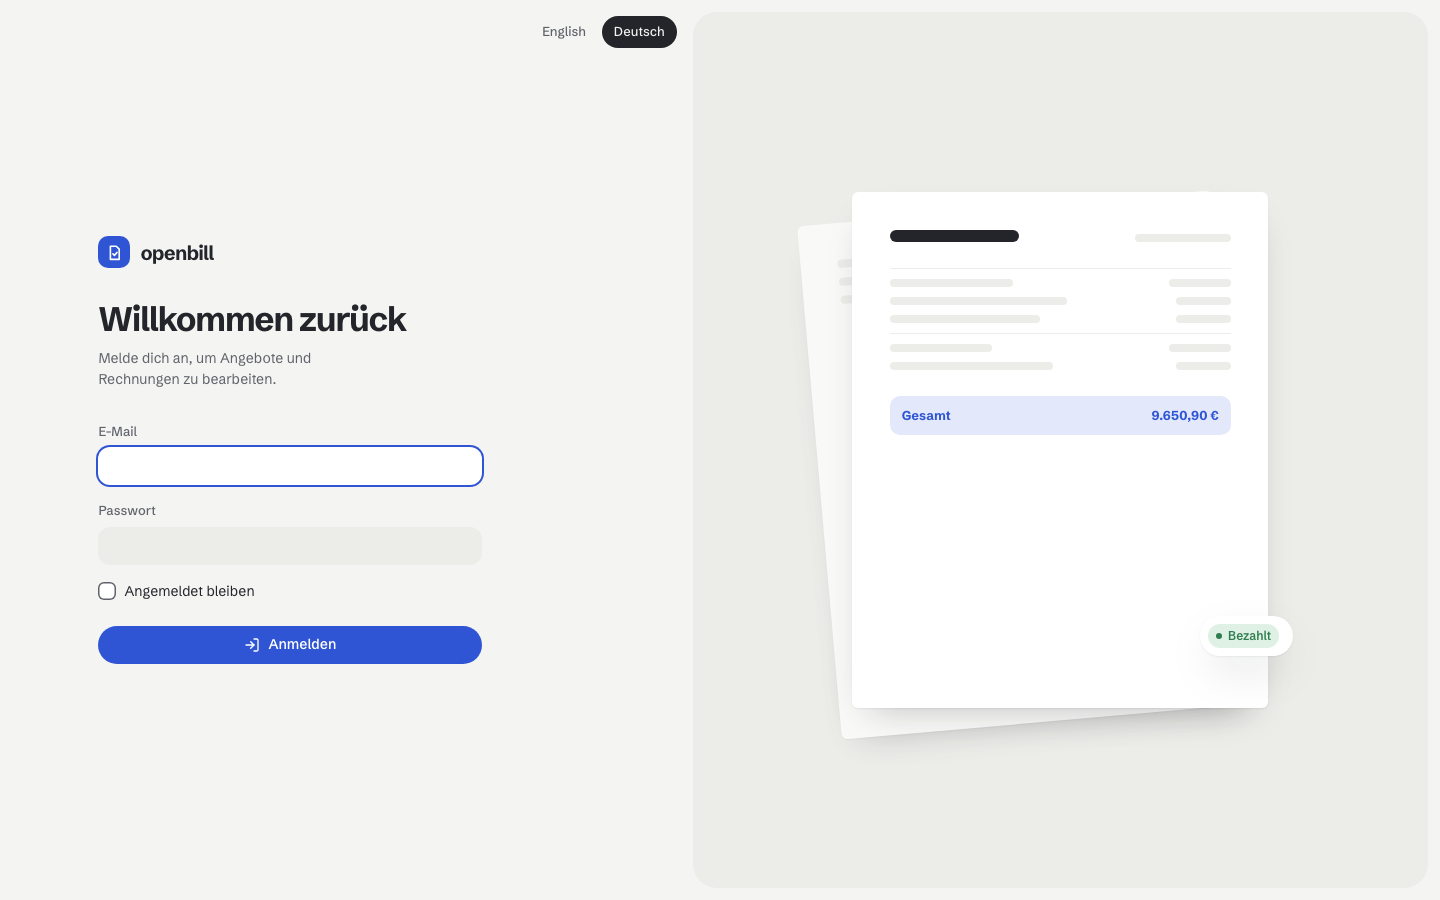
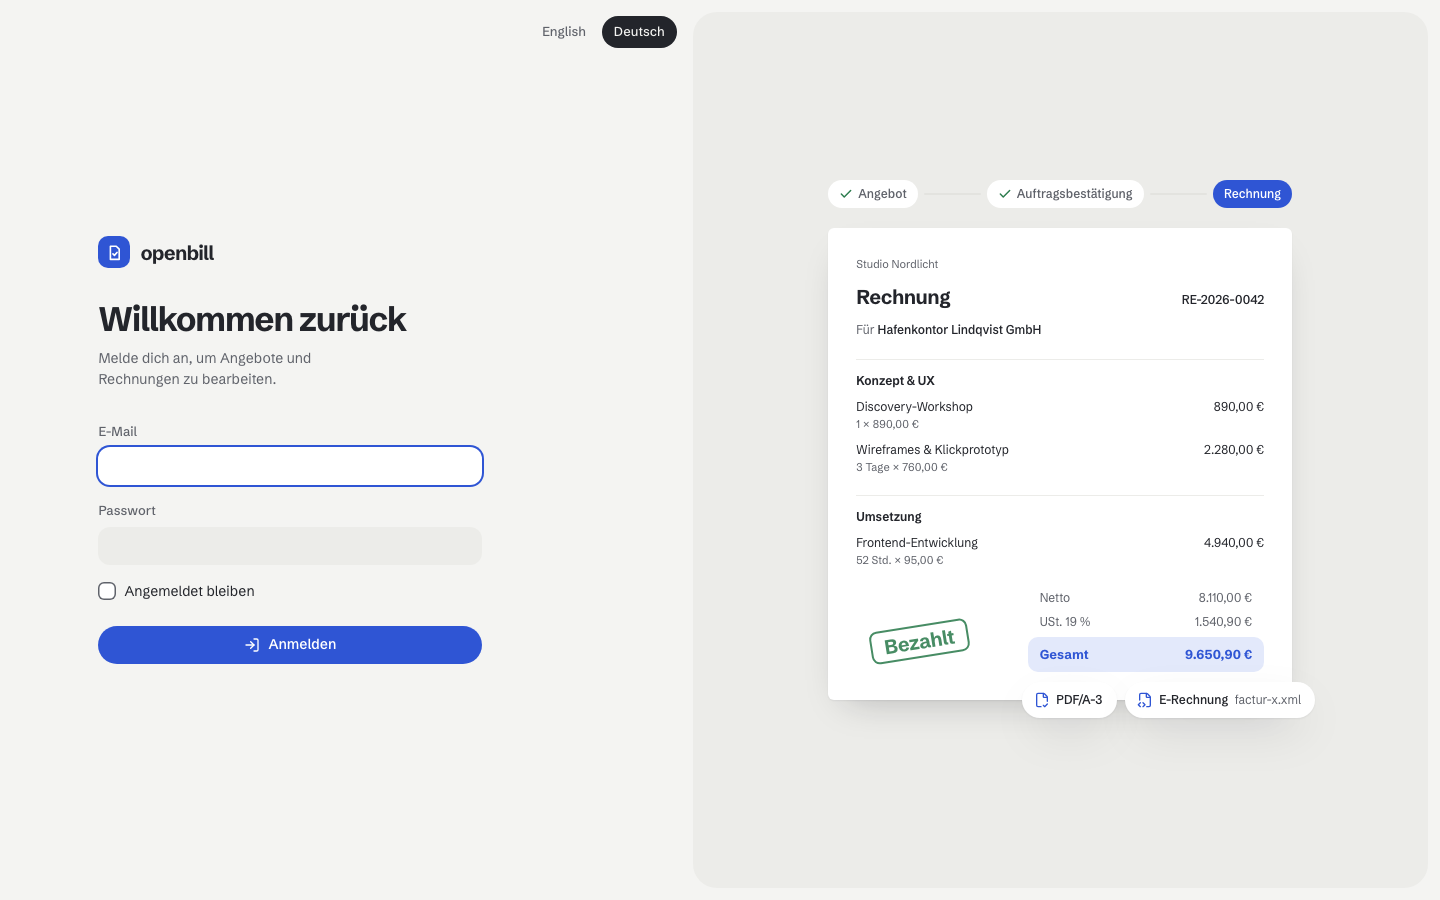
feat: login illustration with a real mini invoice and document chain
Replace the placeholder sheet on the login page with a fictional invoice
(Studio Nordlicht to Hafenkontor Lindqvist GmbH, two position groups,
net 8,110.00, VAT 19 % 1,540.90, total 9,650.90) in the UI language, the
chain quote, order confirmation, invoice above it, and one calm load
sequence (~2 s, once): the chain steps through, the invoice gets its
number, a paid stamp settles, PDF/A-3 and e-invoice badges appear.
Reduced motion shows the final state at once. Decorative (aria-hidden),
paper stays white in dark mode, hidden on narrow screens as before.

diff --git a/resources/js/components/login-art.tsx b/resources/js/components/login-art.tsx
@@ -1,0 +1,114 @@
+import { Check, FileCheck2, FileCode2 } from 'lucide-react';
+import { Fragment, type CSSProperties } from 'react';
+import { formatMoney, formatPercent } from '@/lib/format';
+import { t } from '@/lib/i18n';
+
+/** Stagger of an animated element (resources/css/login.css reads --step). */
+const step = (index: number) => ({ '--step': index }) as CSSProperties;
+
+const CHAIN = ['offer', 'confirmation', 'invoice'] as const;
+
+/** Fictional demo invoice in the UI language (the numbers of the docs landing page): 890.00 + 3 × 760.00 + 52 × 95.00 = 8,110.00 net. */
+const groups = () => [
+    {
+        title: 'login.art.group_concept',
+        rows: [
+            { name: 'login.art.item_workshop', meta: t('login.art.qty_once', { price: formatMoney('890.00') }), amount: '890.00' },
+            { name: 'login.art.item_wireframes', meta: t('login.art.qty_days', { count: 3, price: formatMoney('760.00') }), amount: '2280.00' },
+        ],
+    },
+    {
+        title: 'login.art.group_build',
+        rows: [{ name: 'login.art.item_frontend', meta: t('login.art.qty_hours', { count: 52, price: formatMoney('95.00') }), amount: '4940.00' }],
+    },
+];
+
+/**
+ * Decorative illustration of the login page: the document chain steps through to the invoice, the invoice gets its
+ * number, a "paid" stamp settles and the two archive files appear. Plays once (~2 s, login.css); with reduced motion
+ * it shows the final state right away. The paper stays white in dark mode (DESIGN.md: it shows the printed PDF).
+ */
+export function LoginArt() {
+    return (
+        <div aria-hidden className="login-art grid w-full max-w-[29rem] gap-5">
+            <div className="flex items-center gap-1.5 text-xs font-strong">
+                {CHAIN.map((type, index) => {
+                    const current = index === CHAIN.length - 1;
+                    return (
+                        <Fragment key={type}>
+                            {index > 0 && <span className="login-link h-0.5 min-w-3 flex-1 basis-0 rounded-full bg-surface-3" style={step(index)} />}
+                            <span className={current ? 'login-step login-step-current' : 'login-step'} style={step(index)}>
+                                {!current && <Check className="login-check size-3.5 text-ok" strokeWidth={2.5} />}
+                                <span className="truncate">{t(`document_type.${type}`)}</span>
+                            </span>
+                        </Fragment>
+                    );
+                })}
+            </div>
+
+            <div className="login-paper relative grid gap-5 rounded-[6px] p-7 text-xs shadow-paper">
+                <div className="grid gap-3">
+                    <span className="text-[11px] text-[var(--paper-muted)]">Studio Nordlicht</span>
+                    <div className="flex items-baseline justify-between gap-4">
+                        <span className="text-xl font-bold tracking-heading">{t('document_type.invoice')}</span>
+                        <span className="num grid justify-items-end font-strong">
+                            <span className="login-draft col-start-1 row-start-1 text-[var(--paper-muted)]">{t('template.draft')}</span>
+                            <span className="login-number col-start-1 row-start-1">{t('login.art.number')}</span>
+                        </span>
+                    </div>
+                    <span className="text-[var(--paper-muted)]">
+                        {t('template.for')} <span className="font-strong text-[var(--paper-ink)]">Hafenkontor Lindqvist GmbH</span>
+                    </span>
+                </div>
+
+                {groups().map((group) => (
+                    <div key={group.title} className="grid gap-2 border-t border-[var(--paper-line)] pt-3">
+                        <span className="font-heading">{t(group.title)}</span>
+                        {group.rows.map((row) => (
+                            <div key={row.name} className="flex items-baseline justify-between gap-4">
+                                <span className="grid">
+                                    <span>{t(row.name)}</span>
+                                    <span className="num text-[11px] text-[var(--paper-muted)]">{row.meta}</span>
+                                </span>
+                                <span className="num">{formatMoney(row.amount)}</span>
+                            </div>
+                        ))}
+                    </div>
+                ))}
+
+                <div className="num ml-auto grid w-[58%] gap-1.5">
+                    <div className="flex justify-between px-3 text-[var(--paper-muted)]">
+                        <span>{t('template.net')}</span>
+                        <span>{formatMoney('8110.00')}</span>
+                    </div>
+                    <div className="flex justify-between px-3 text-[var(--paper-muted)]">
+                        <span>
+                            {t('template.vat')} {formatPercent('19.00')}
+                        </span>
+                        <span>{formatMoney('1540.90')}</span>
+                    </div>
+                    <div className="flex justify-between rounded-[10px] bg-[var(--paper-accent-soft)] px-3 py-2 text-sm font-bold text-[var(--paper-accent)]">
+                        <span>{t('template.total')}</span>
+                        <span>{formatMoney('9650.90')}</span>
+                    </div>
+                </div>
+
+                <span className="login-stamp absolute bottom-[9%] left-[9%] rounded-[8px] border-2 border-current px-3 py-0.5 text-xl font-bold tracking-heading text-[var(--paper-ok)]">
+                    {t('status.paid')}
+                </span>
+            </div>
+
+            <div className="relative z-10 -mt-[2.375rem] mr-[-5%] flex justify-end gap-2">
+                <span className="login-file" style={step(0)}>
+                    <FileCheck2 className="size-4 text-accent" />
+                    PDF/A-3
+                </span>
+                <span className="login-file" style={step(1)}>
+                    <FileCode2 className="size-4 text-accent" />
+                    {t('editor.e_invoice')}
+                    <span className="font-normal text-muted">factur-x.xml</span>
+                </span>
+            </div>
+        </div>
+    );
+}

diff --git a/resources/js/pages/login.tsx b/resources/js/pages/login.tsx
@@ -1,12 +1,11 @@
 import { Head, useForm } from '@inertiajs/react';
 import { LogIn } from 'lucide-react';
 import { LocaleSwitch } from '@/components/locale-switch';
+import { LoginArt } from '@/components/login-art';
 // direct imports, not the ui barrel: the barrel re-exports Radix dialogs and menus the login does not need
-import { Badge } from '@/components/ui/badge';
 import { Button } from '@/components/ui/button';
 import { Checkbox, TextInput } from '@/components/ui/form';
 import { LogoMark } from '@/layouts/logo';
-import { formatMoney } from '@/lib/format';
 import { path, t } from '@/lib/i18n';
 
 export default function Login() {
@@ -62,48 +61,9 @@ export default function Login() {
                     </Button>
                 </form>
             </div>
-            <div aria-hidden className="relative hidden place-items-center overflow-hidden rounded-xl bg-surface-2 p-10 md:grid">
+            <div className="relative hidden place-items-center overflow-hidden rounded-xl bg-surface-2 p-10 md:grid">
                 <LoginArt />
             </div>
         </main>
-    );
-}
-
-/** Two sheets of paper, a total and a "paid" chip. Decorative; paper stays white in dark mode as well. */
-function LoginArt() {
-    const line = (width: string) => <span className="block h-2 rounded-full bg-[#ecece9]" style={{ width }} />;
-    const row = (left: string, right: string, group = false) => (
-        <div className={group ? 'flex justify-between border-t border-[#ecece9] pt-2.5' : 'flex justify-between'}>
-            {line(left)}
-            {line(right)}
-        </div>
-    );
-
-    return (
-        <div className="relative aspect-[210/260] w-full max-w-[26rem]">
-            <div className="absolute inset-0 grid -translate-x-[8%] translate-y-[3%] -rotate-5 content-start gap-2.5 rounded-[6px] bg-white p-[9%] opacity-70 shadow-paper">
-                {line('40%')}
-                {line('70%')}
-                {line('55%')}
-            </div>
-            <div className="absolute inset-0 grid content-start gap-2.5 rounded-[6px] bg-white p-[9%] text-[13px] text-[#23252b] shadow-paper">
-                <div className="mb-4 flex items-baseline justify-between">
-                    <span className="block h-3 w-[38%] rounded-full bg-[#23252b]" />
-                    {line('28%')}
-                </div>
-                {row('36%', '18%', true)}
-                {row('52%', '16%')}
-                {row('44%', '16%')}
-                {row('30%', '18%', true)}
-                {row('48%', '16%')}
-                <div className="num mt-4 flex justify-between rounded-[10px] bg-[#e3e9fb] px-3 py-2.5 font-bold text-[#2f55d4]">
-                    <span>{t('template.total')}</span>
-                    <span>{formatMoney('9650.90')}</span>
-                </div>
-            </div>
-            <div className="absolute right-[-6%] bottom-[10%] flex items-center gap-2 rounded-full bg-surface py-2 pr-3.5 pl-2 shadow-float">
-                <Badge tone="ok">{t('status.paid')}</Badge>
-            </div>
-        </div>
     );
 }

diff --git a/resources/css/login.css b/resources/css/login.css
@@ -1,0 +1,115 @@
+/*
+ * Login illustration (resources/js/components/login-art.tsx): one sequence on load, ~2 s, never again.
+ * The final state is the elements' own style; the animations only fill backwards (from their first keyframe until
+ * they start), so without animations (reduced motion) the final state shows at once.
+ */
+.login-paper {
+    background: var(--paper);
+    color: var(--paper-ink);
+}
+
+.login-step {
+    display: inline-flex;
+    min-width: 0;
+    height: 1.75rem;
+    align-items: center;
+    gap: 0.3rem;
+    border-radius: 999px;
+    padding-inline: 0.7rem;
+    background: var(--surface);
+    color: var(--muted);
+    animation: login-step 320ms var(--ease-soft) calc(150ms + var(--step) * 300ms) backwards;
+}
+
+.login-step-current {
+    background: var(--accent);
+    color: var(--accent-ink);
+}
+
+.login-check {
+    flex-shrink: 0;
+    animation: login-fade 240ms var(--ease-soft) calc(300ms + var(--step) * 300ms) backwards;
+}
+
+.login-link {
+    transform-origin: left;
+    animation: login-grow 260ms var(--ease-soft) calc(var(--step) * 300ms) backwards;
+}
+
+/* the invoice gets its number once it is reached in the chain */
+.login-draft {
+    opacity: 0;
+    animation: login-out 220ms var(--ease-soft) 1000ms backwards;
+}
+
+.login-number {
+    animation: login-in 300ms var(--ease-soft) 1080ms backwards;
+}
+
+.login-stamp {
+    opacity: 0.88;
+    transform: rotate(-9deg);
+    animation: login-stamp 420ms var(--ease-soft) 1300ms backwards;
+}
+
+.login-file {
+    display: inline-flex;
+    height: 2.25rem;
+    align-items: center;
+    gap: 0.4rem;
+    border-radius: 999px;
+    padding-inline: 0.75rem 0.9rem;
+    background: var(--surface);
+    box-shadow: var(--elev-float);
+    font-size: 0.75rem;
+    font-weight: 550;
+    white-space: nowrap;
+    animation: login-in 320ms var(--ease-soft) calc(1700ms + var(--step) * 150ms) backwards;
+}
+
+@keyframes login-step {
+    from {
+        background: transparent;
+        color: var(--faint);
+    }
+}
+
+@keyframes login-fade {
+    from {
+        opacity: 0;
+    }
+}
+
+@keyframes login-grow {
+    from {
+        transform: scaleX(0);
+    }
+}
+
+@keyframes login-out {
+    from {
+        opacity: 1;
+    }
+}
+
+@keyframes login-in {
+    from {
+        opacity: 0;
+        transform: translateY(6px);
+    }
+}
+
+@keyframes login-stamp {
+    from {
+        opacity: 0;
+        transform: rotate(-3deg) scale(1.6);
+    }
+}
+
+/* final state immediately (the global rule only shortens durations, the delays would still hide the stamp) */
+@media (prefers-reduced-motion: reduce) {
+    .login-art,
+    .login-art * {
+        animation: none !important;
+    }
+}

diff --git a/resources/css/app.css b/resources/css/app.css
@@ -3,6 +3,7 @@
 @import './editor.css';
 @import './templates.css';
 @import './settings.css';
+@import './login.css';
 @source '../js';
 @source '../views';
 
@@ -37,6 +38,14 @@
     --elev-paper: 0 1px 2px rgb(20 22 30 / 0.06), 0 16px 36px -18px rgb(20 22 30 / 0.28);
     --elev-float: 0 1px 2px rgb(20 22 30 / 0.06), 0 18px 48px -12px rgb(20 22 30 / 0.22);
     --elev-tab: 0 1px 2px rgb(20 22 30 / 0.08);
+    /* printed paper (login illustration): stays white in dark mode as well, so dark mode does not assign these */
+    --paper: #ffffff;
+    --paper-ink: #23252b;
+    --paper-muted: #5f626a;
+    --paper-line: #ecece9;
+    --paper-accent: #2f55d4;
+    --paper-accent-soft: #e3e9fb;
+    --paper-ok: #2e7d4f;
     --font: 'Schibsted Grotesk Variable', ui-sans-serif, system-ui, -apple-system, 'Segoe UI', sans-serif;
     --font-code: ui-monospace, 'SF Mono', 'Cascadia Code', Menlo, monospace;
     color-scheme: light;
